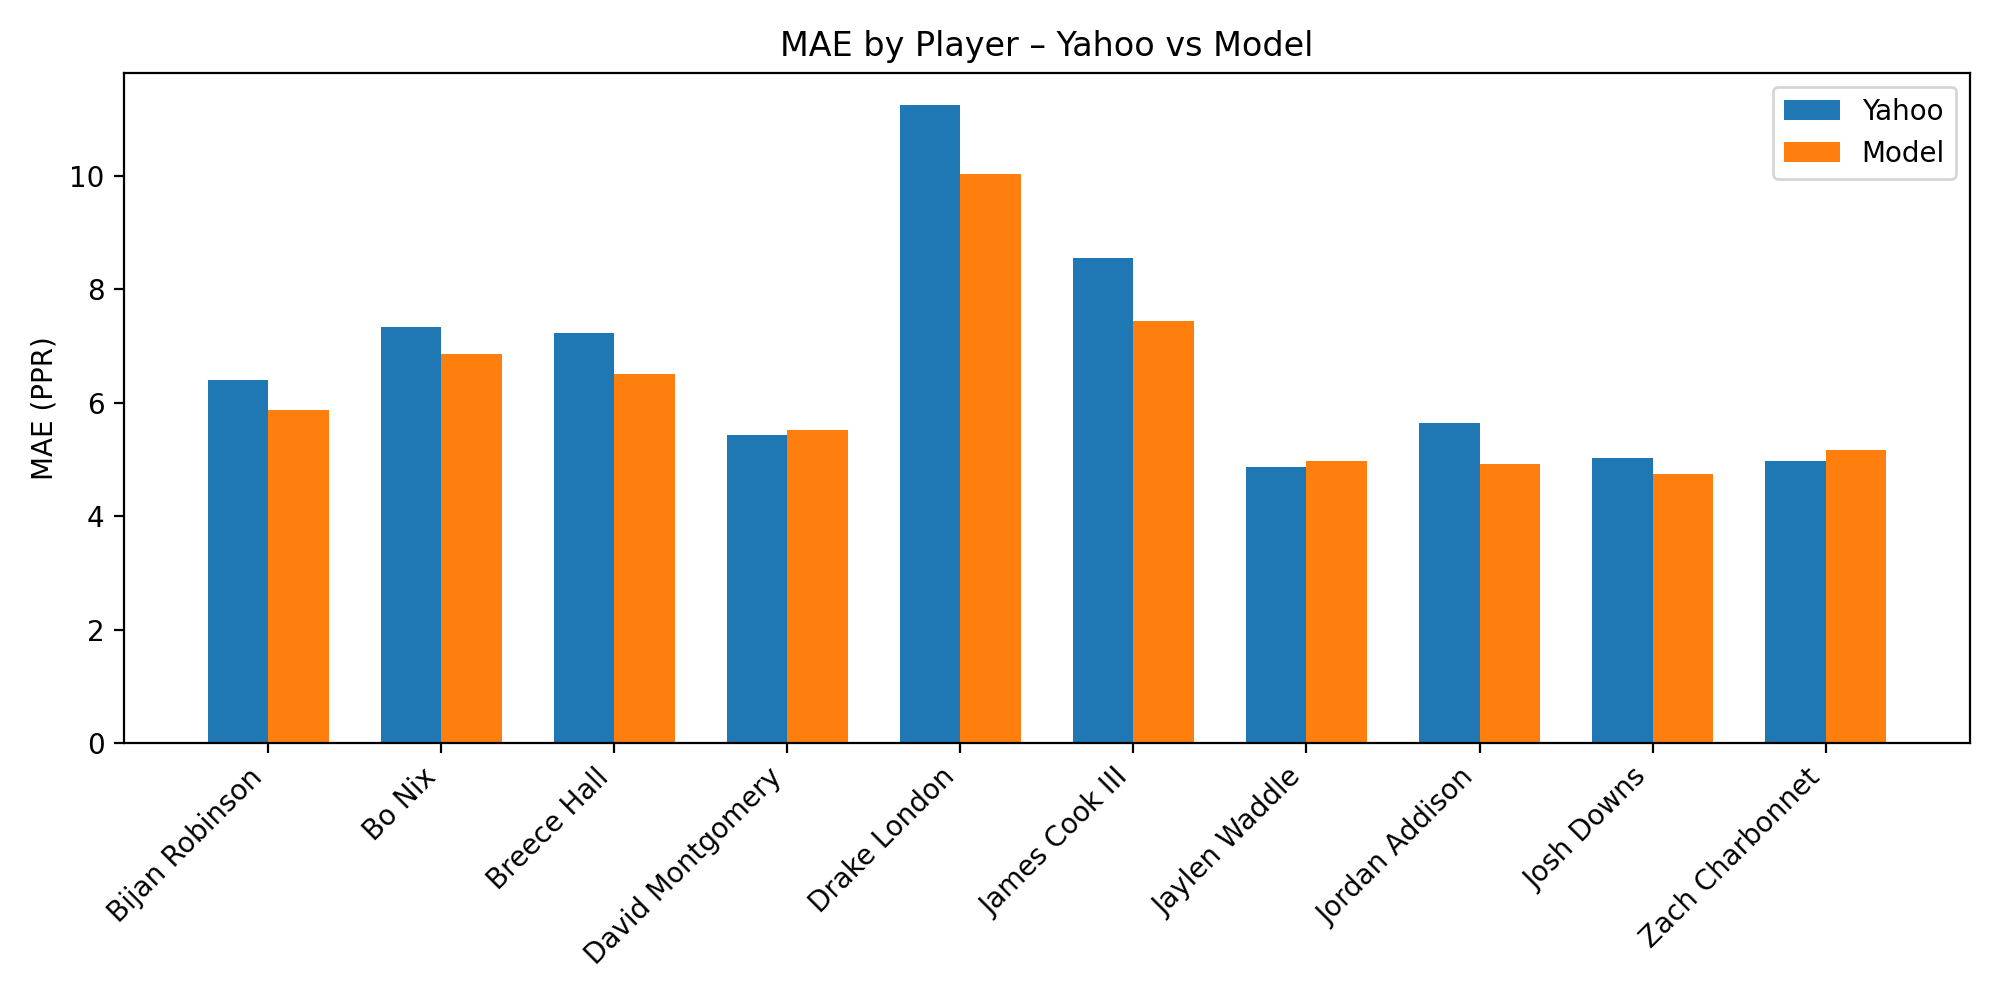
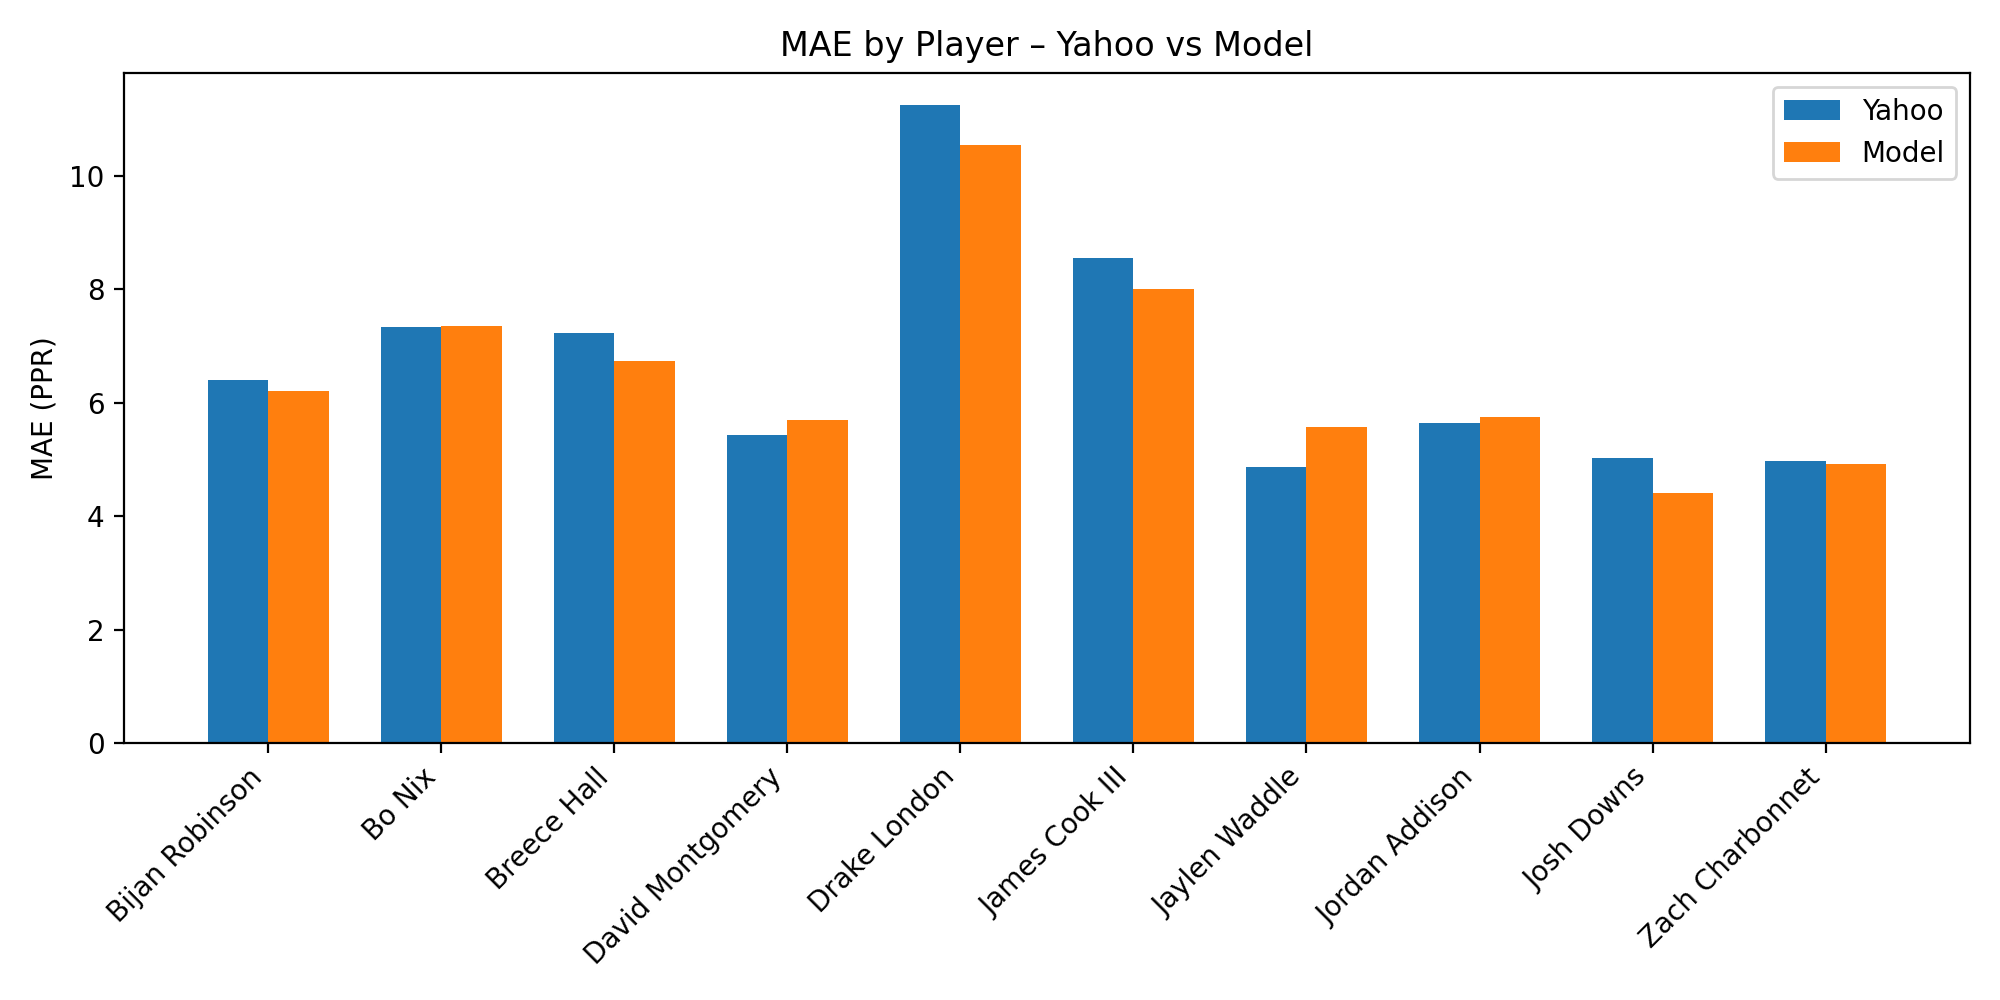
data updates

diff --git a/compare_yahoo_players.py b/compare_yahoo_players.py
@@ -54,11 +54,9 @@ def main():
     overall_rmse_yahoo = rmse(y_true, y_yahoo)
     overall_rmse_model = rmse(y_true, y_model)
 
-    print("=== Overall accuracy (all CSV rows) ===")
+    print("=== Overall accuracy ===")
     print(f"Yahoo MAE:  {overall_mae_yahoo:.3f}")
     print(f"Model MAE:  {overall_mae_model:.3f}")
-    print(f"Yahoo RMSE: {overall_rmse_yahoo:.3f}")
-    print(f"Model RMSE: {overall_rmse_model:.3f}")
     print()
 
     rows = []

diff --git a/models/fantasy_transformer.py b/models/fantasy_transformer.py
@@ -50,7 +50,7 @@ class FantasyTransformer(nn.Module):
             nn.Linear(d_model, 1),
         )
 
-    def forward(self, x_num: torch.Tensor, x_cat: torch.Tensor, mask: torch.Tensor) -> torch.Tensor:
+    def forward(self, x_num: torch.Tensor, x_cat: torch.Tensor, mask: torch.Tensor):
         B, T, _ = x_num.shape
         device = x_num.device
 
